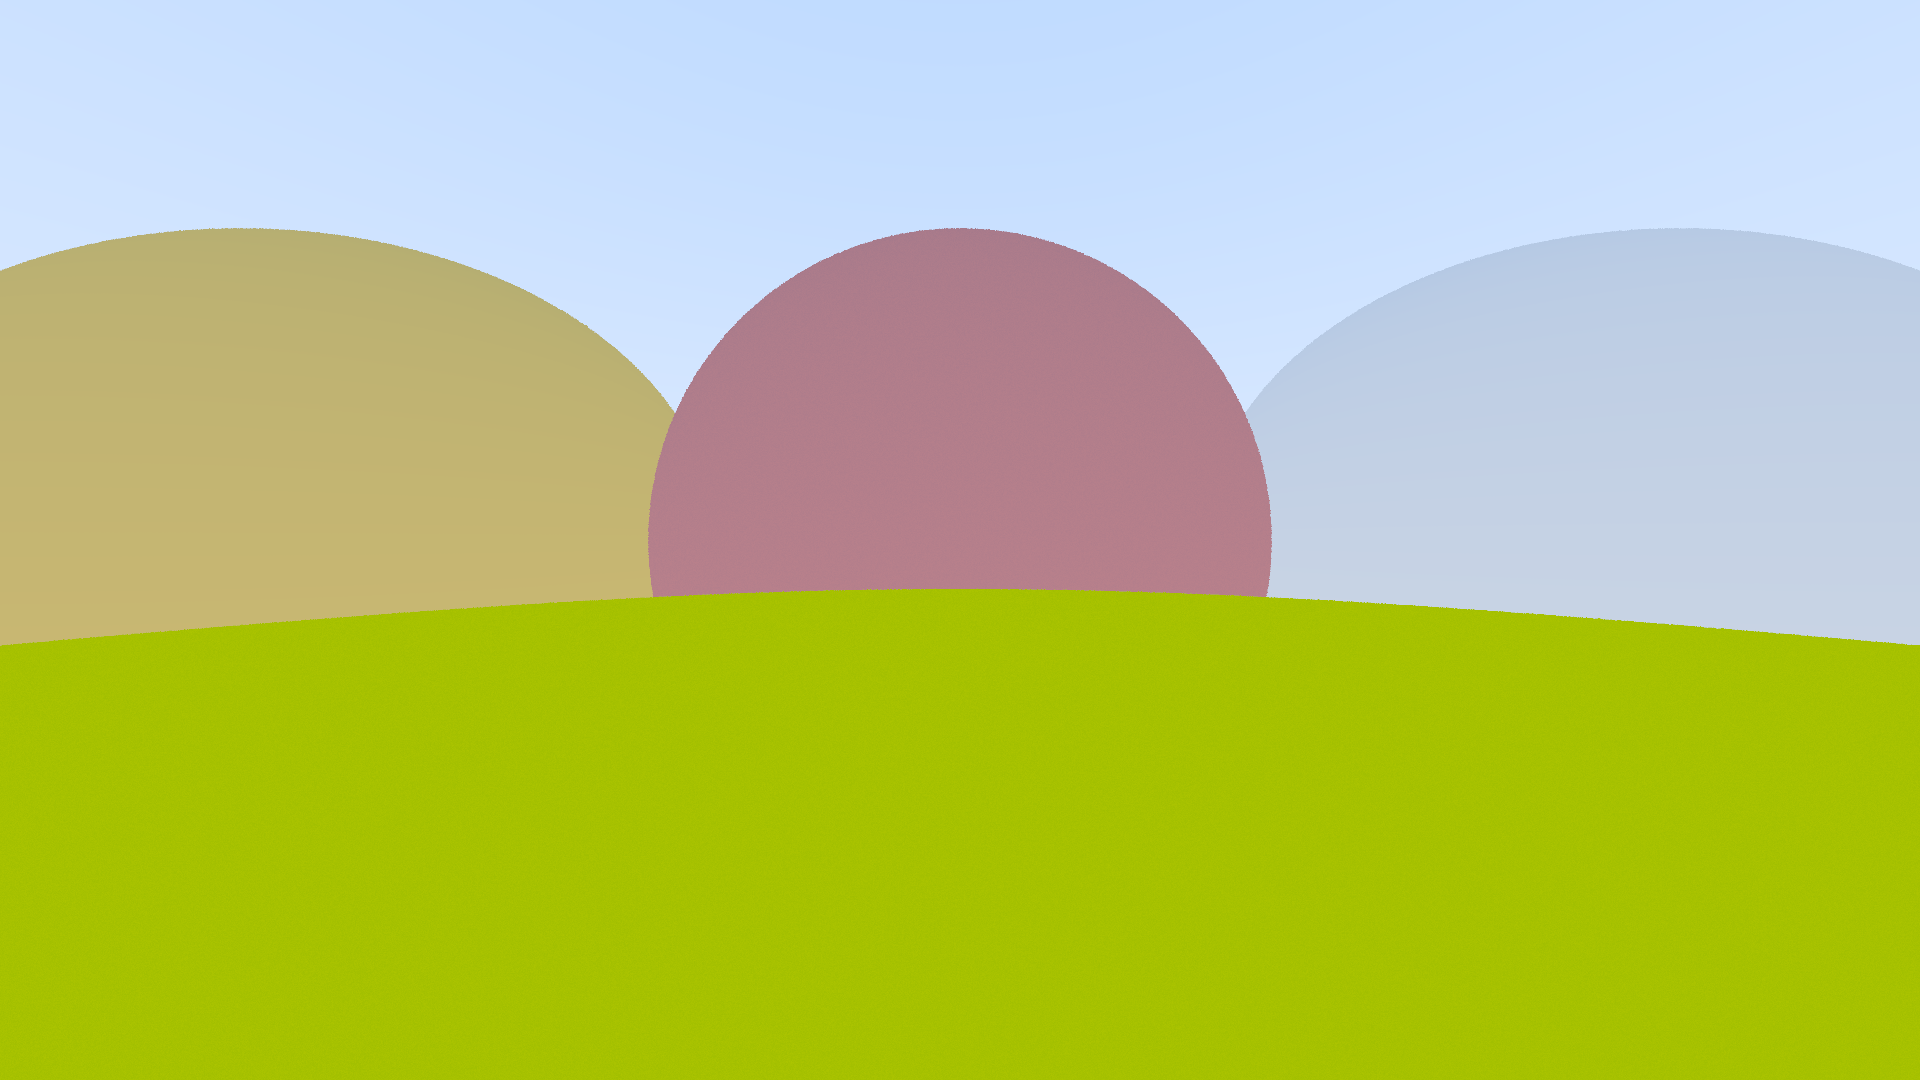
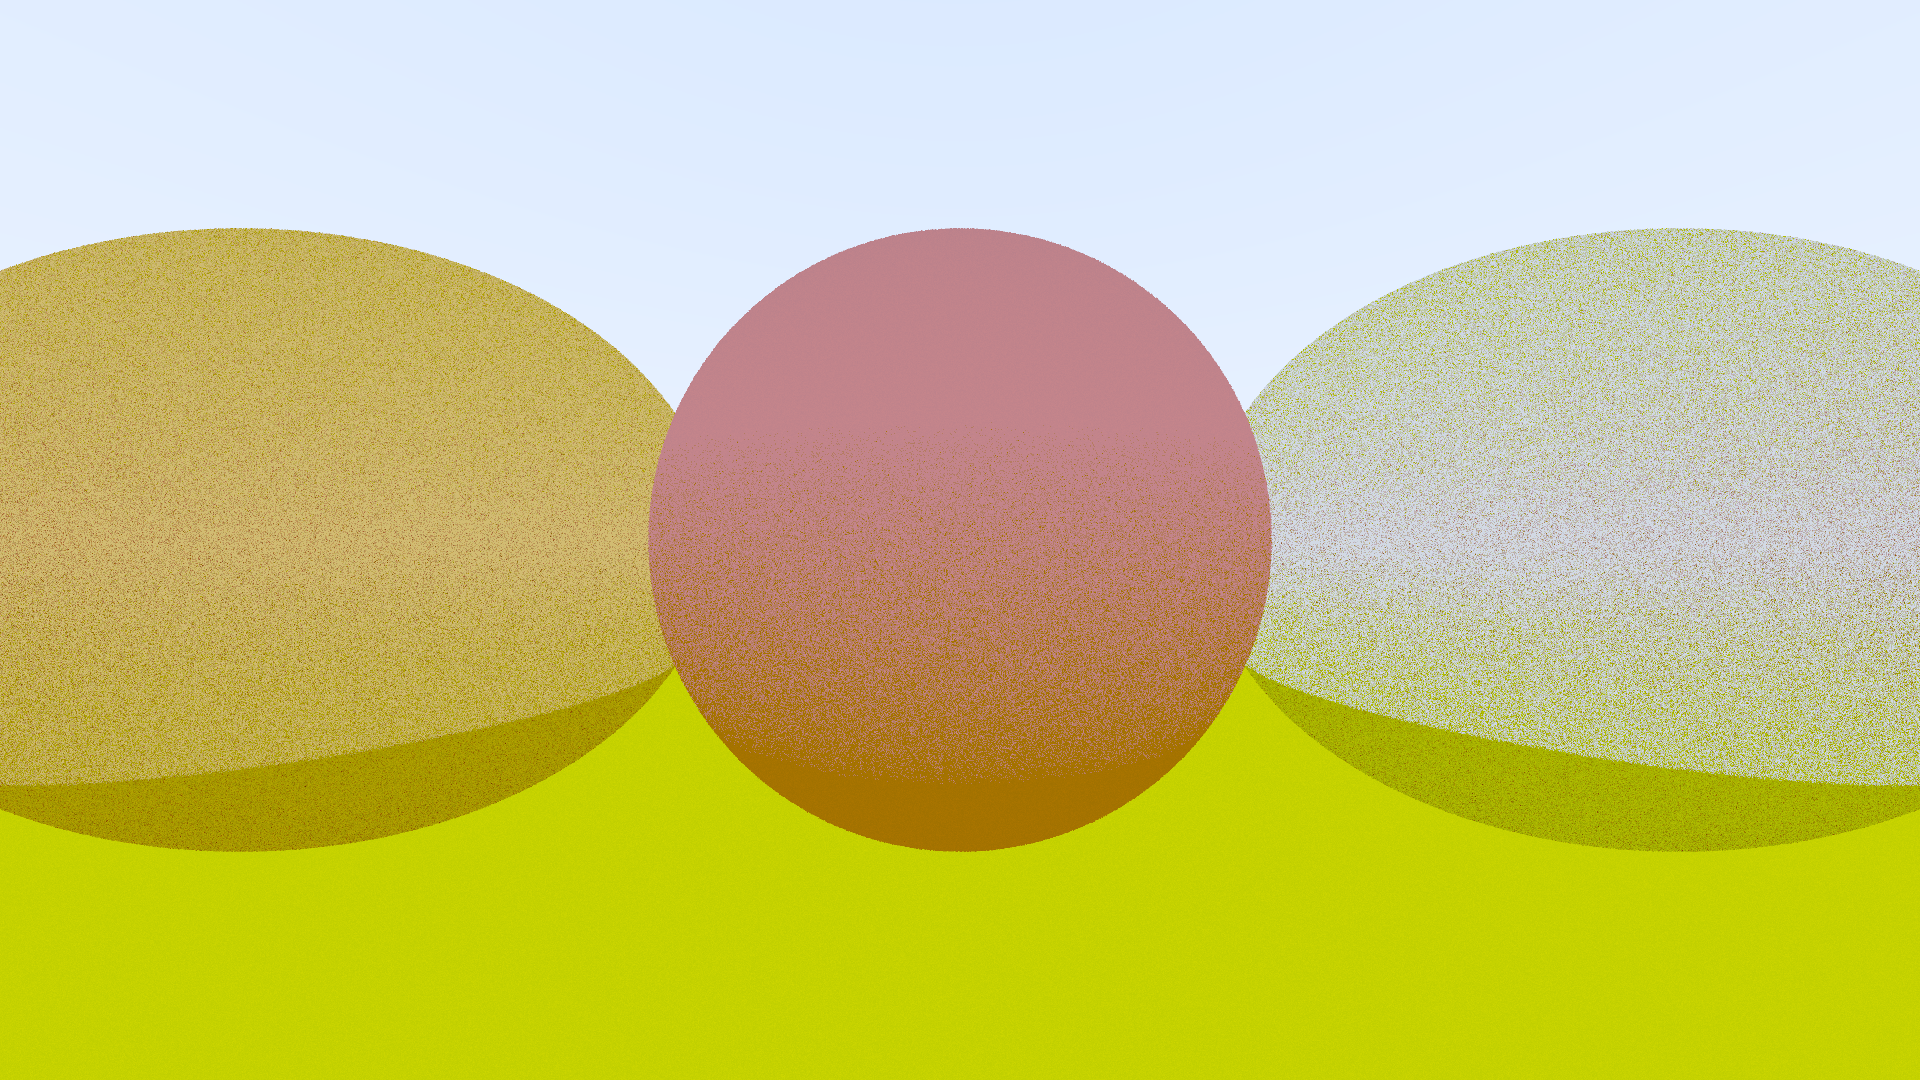
feature: fixed a bit of things but not much...

diff --git a/src/main.rs b/src/main.rs
@@ -13,7 +13,7 @@ use std::io::Write;
 use glam::{DVec2, DVec3, Vec3};
 use materials::Material;
 use objects::{Hittable, Sphere};
-use rand::{distributions::Bernoulli, rngs::StdRng};
+use rand::{distributions::Bernoulli, rngs::StdRng, Rng};
 use rays::Ray;
 use screen::Screen;
 
@@ -53,11 +53,18 @@ fn rnd_f64(min: f64, max: f64) -> f64 {
 }
 
 fn random_in_unit_sphere() -> DVec3 {
-    for i in 0..10_000 {
-        let p = DVec3::new(rnd_f64(-1., 1.),rnd_f64(-1., 1.),rnd_f64(-1., 1.));
-        if (p.length_squared()<1.) {return p}
+    let mut rng = rand::thread_rng();
+    loop {
+        let vec = DVec3::new(
+            rng.gen_range(-1.0..1.),
+            rng.gen_range(-1.0..1.),
+            rng.gen_range(-1.0..1.),
+        );
+
+        if vec.length_squared() < 1. {
+            break vec;
+        }
     }
-    panic!("Trying to generate number took to many attempts")
 }
 
 fn random_on_hemisphere(normal: DVec3) -> DVec3 {
@@ -86,23 +93,28 @@ fn set_face_normal(ray: &Ray, outward_normal: DVec3) -> DVec3 {
 
 fn ray_color(screen: &Screen, objects: &Vec<Box<dyn Hittable>>, ray: Ray, depth: u8) -> DVec3 {
     if depth == 0 {return DVec3::ZERO}
-    let unit_direction = ray.direction.normalize();
-    let a = 0.5*(unit_direction.y + 1.0);
-    let mut color = (1.0-a)*DVec3::new(1.0, 1.0, 1.0) + a*DVec3::new(0.5, 0.7, 1.0);
     let mut hit_anything = false;
     let mut closest_so_far = f64::MAX;
+    let mut last_hit = None;
     for obj in objects {
         if let Some(record) = obj.hit(&ray, 0.001, closest_so_far) {
             hit_anything = true;
             closest_so_far = record.t;
-            if let Some((ray, attenuation)) = record.mat.scatter(&ray, &record) {
-                return attenuation * ray_color(screen, objects, ray, depth-1)
-            } else {
-                return DVec3::ZERO;
-            }
+            last_hit.replace(record);
             // let dir = record.normal + random_in_unit_sphere().normalize();
             // color = 0.3 * ray_color(screen, objects, Ray::new(record.point, dir), depth - 1);
         }
     }
+    if hit_anything {
+        let record = last_hit.unwrap();
+        if let Some((scattered, attenuation)) = record.mat.scatter(&ray, &record) {
+            return attenuation * ray_color(screen, objects, scattered, depth-1)
+        } else {
+            return DVec3::ZERO;
+        }
+    }
+    let unit_direction = ray.direction.normalize();
+    let a = 0.3*(unit_direction.y + 1.0);
+    let mut color = (1.0-a)*DVec3::new(1.0, 1.0, 1.0) + a*DVec3::new(0.5, 0.7, 1.0);
     return color
 }

diff --git a/src/materials.rs b/src/materials.rs
@@ -13,7 +13,7 @@ impl Material {
             Material::Lambertian(albedo) => {
                 let mut direction = hit_record.normal + random_in_unit_sphere().normalize();
                 // Catch degenerate scatter direction
-                if near_zero(direction) {
+                if direction.abs_diff_eq(DVec3::ZERO, 1e-8) {
                     direction = hit_record.normal;
                 }
                 Some((Ray {
